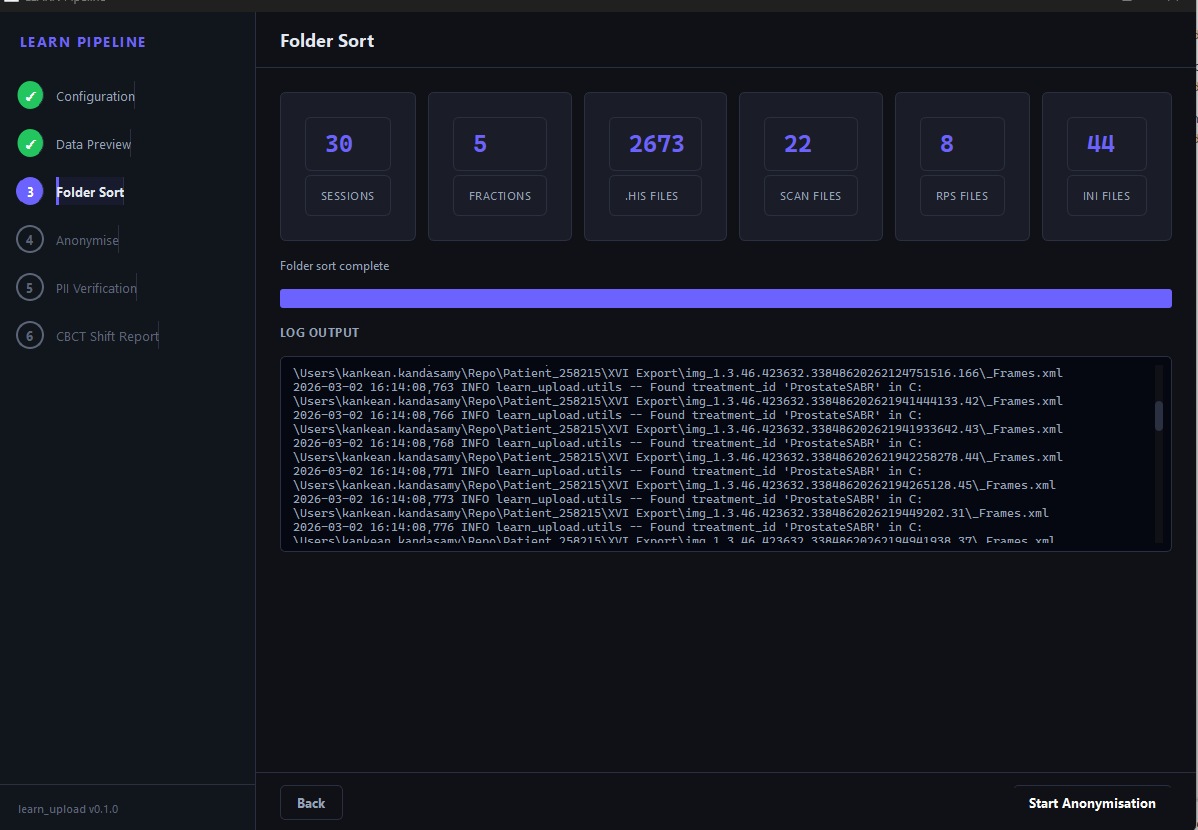
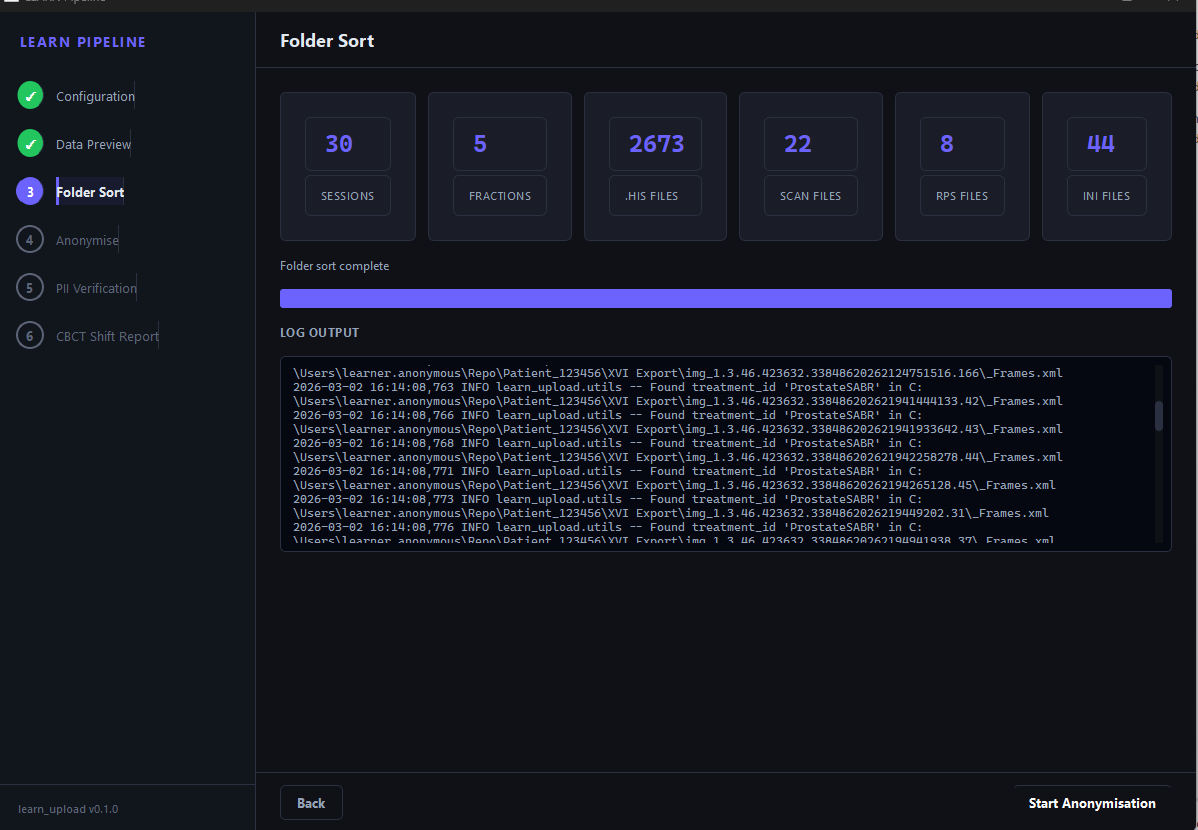
Redact username and patient MRN from GUI walkthrough screenshots
Replace the Windows username in log paths with learner.anonymous and the
source export MRN with the placeholder 123456 (glyph-matched, same width),
and use the placeholder in the walkthrough text.

Claude-Session: https://claude.ai/code/session_01AGDksq1aZv56p5JVVYqJ7A

Changed region(s): [[0.278, 0.4217, 0.4015, 0.6627], [0.4633, 0.4217, 0.4942, 0.6627]]

diff --git a/docs/GUI_Walkthrough.md b/docs/GUI_Walkthrough.md
@@ -89,7 +89,7 @@ The Configuration page collects all the parameters needed for the pipeline run. 
 
 | Field | Description |
 |-------|-------------|
-| **Source Path** | Root of the XVI patient export (e.g. `Patient_258215`). Contains the `IMAGES/` or `XVI Export/` subdirectory. |
+| **Source Path** | Root of the XVI patient export (e.g. `Patient_123456`). Contains the `IMAGES/` or `XVI Export/` subdirectory. |
 | **TPS Export Path** | Path to exported treatment planning system DICOM files (optional). |
 | **Output Path** | Root output directory where the LEARN folder structure will be created. |
 | **Staging Path** | Intermediate staging directory. Defaults to `output/_staging` if left blank. |
